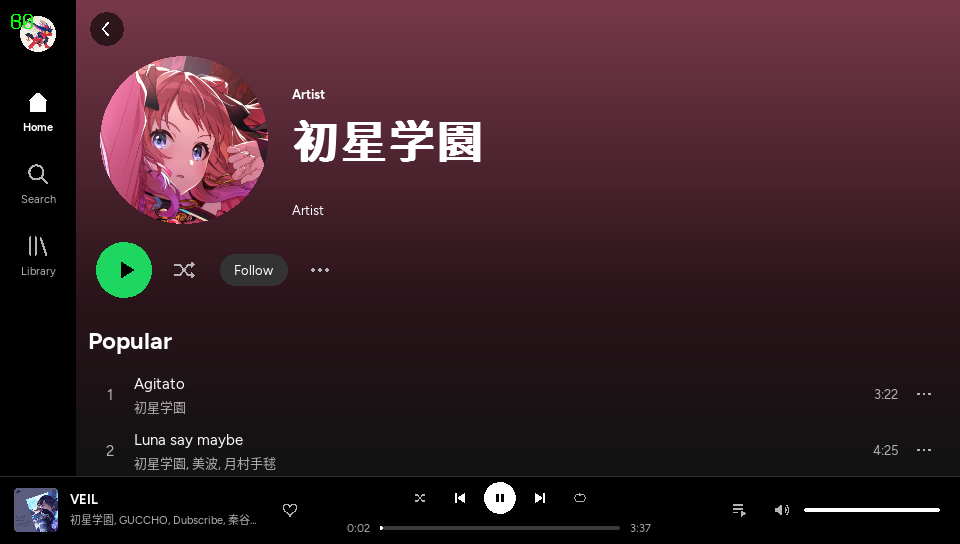
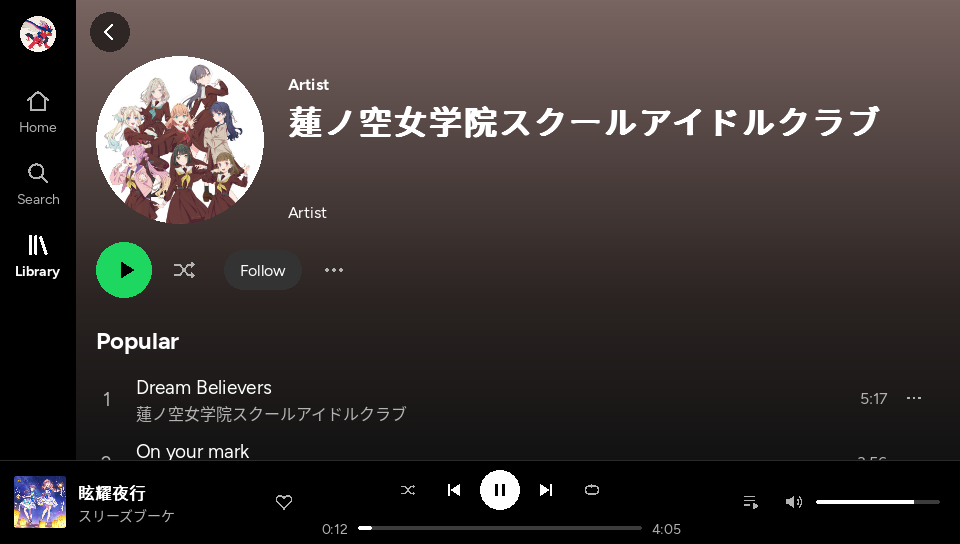
Refresh README screenshots for the scaled UI
New Home, playlist, artist and Now Playing shots from the real backend,
the playlist shot replacing Liked Songs. Note the scaled touch targets
under Features.

diff --git a/README.md b/README.md
@@ -12,9 +12,9 @@ own branding. **Spotify Premium is required.**
 
 ![Home](docs/screenshots/home.png)
 
-| Liked Songs | Artist |
+| Playlist | Artist |
 |---|---|
-| ![Liked Songs](docs/screenshots/liked.png) | ![Artist](docs/screenshots/artist.png) |
+| ![Playlist](docs/screenshots/playlist.png) | ![Artist](docs/screenshots/artist.png) |
 
 ![Now Playing](docs/screenshots/player.png)
 
@@ -33,6 +33,9 @@ own branding. **Spotify Premium is required.**
 - **Like / save** songs, albums and artists.
 - **CJK text**: Chinese, Japanese and Korean titles render through a bundled
   Noto Sans CJK fallback font.
+- **Sized for the Vita**: text and touch targets are scaled for the 5-inch
+  screen. Buttons have at least a 48 px touch area, and sliders can be grabbed
+  well above or below their thin bar.
 
 ## Installing and signing in
 
